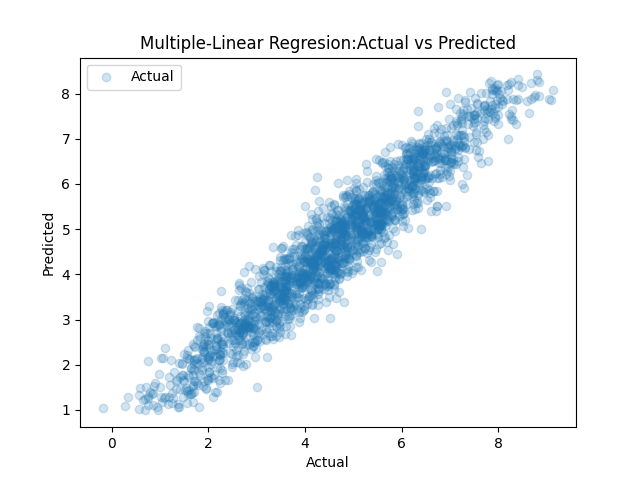
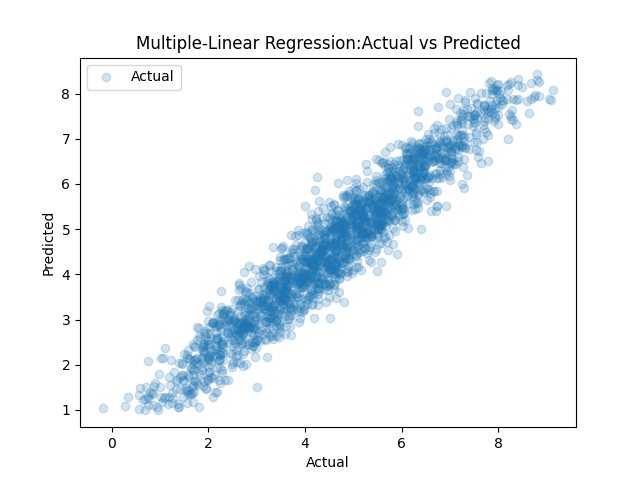
Added Logistics Regression in README

Changed region(s): [[0.2188, 0.0625, 0.8125, 0.125]]

diff --git a/README.md b/README.md
@@ -5,7 +5,7 @@ including code practice and theory notes.
 
 ---
 
-## Train Test Split
+## 01-Train Test Split
 
 ### What is Train-Test Split?
 
@@ -124,3 +124,146 @@ b → intercept (starting point of the line)
 - Adding them pushed R² from 0.57 → 0.91
 - Choosing the right features matters more than the algorithm itself
 - True/False columns must be encoded to 1/0 before using in a model
+
+### 03-Logistic Regression
+
+## What is Logistic Regression?
+
+Logistic Regression is a classification algorithm that predicts the probability of an outcome being **yes or no (1 or 0)**. Unlike Linear Regression which predicts a number, Logistic Regression predicts a **class**.
+
+---
+
+## Types of Logistic Regression
+
+| Type        | When to Use             | Example             |
+| ----------- | ----------------------- | ------------------- |
+| Binary      | Only 2 outcomes         | Pass / Fail         |
+| Multinomial | 3+ outcomes, no order   | Cat / Dog / Bird    |
+| Ordinal     | 3+ outcomes, with order | Low / Medium / High |
+
+> We focused on **Binary Logistic Regression** in this session.
+
+---
+
+## How It Works
+
+- Takes input features and predicts a **probability between 0 and 1**
+- If probability >= 0.5 → Class 1 (Yes)
+- If probability < 0.5 → Class 0 (No)
+
+```
+0.0  ←————————————————→  1.0
+NO                        YES
+(0%)                    (100%)
+```
+
+---
+
+## Difference — Linear vs Logistic Regression
+
+|             | Linear Regression     | Logistic Regression       |
+| ----------- | --------------------- | ------------------------- |
+| Output      | A number (e.g. 270kg) | A probability (e.g. 0.85) |
+| Used for    | Regression            | Classification            |
+| Example     | Predict crop yield    | Predict pass/fail         |
+| Result type | Continuous            | 0 or 1                    |
+
+---
+
+## Confusion Matrix
+
+A confusion matrix shows exactly where the model was right and where it was wrong.
+
+```
+                 Predicted NO    Predicted YES
+Actual NO    →       TN               FP
+Actual YES   →       FN               TP
+```
+
+| Term | Full Name      | Meaning                       |
+| ---- | -------------- | ----------------------------- |
+| TN   | True Negative  | Correctly predicted No        |
+| TP   | True Positive  | Correctly predicted Yes       |
+| FP   | False Positive | Predicted Yes but actually No |
+| FN   | False Negative | Predicted No but actually Yes |
+
+---
+
+## Projects Built
+
+### Project 1 — Student Pass/Fail Predictor
+
+**File:** `logistics.py`
+
+| Detail           | Info                        |
+| ---------------- | --------------------------- |
+| Dataset          | Manually created            |
+| Rows             | 10                          |
+| Features         | study_hours, previous_marks |
+| Target           | passed (1 = Pass, 0 = Fail) |
+| Train/Test Split | No — dataset too small      |
+| Accuracy         | 100%                        |
+
+**Confusion Matrix Result:**
+
+```
+[[4 0]
+ [0 6]]
+```
+
+Model predicted all 10 students correctly.
+
+**New Student Prediction:**
+
+- study_hours = 4, previous_marks = 58 → **Predicted: PASS**
+
+---
+
+### Project 2 — Heart Disease Predictor
+
+**File:** `heart_prediction.py`  
+**Dataset:** Heart Disease Dataset — [Kaggle Link](https://www.kaggle.com/datasets/johnsmith88/heart-disease-dataset)
+
+| Detail           | Info                                 |
+| ---------------- | ------------------------------------ |
+| Rows             | 1025                                 |
+| Columns          | 14                                   |
+| Missing Values   | None                                 |
+| Target           | target (1 = Disease, 0 = No Disease) |
+| Train/Test Split | 80% train / 20% test                 |
+| random_state     | 42                                   |
+| Accuracy         | 79.5%                                |
+
+**Features Used:**
+age, sex, cp, trestbps, chol, fbs, restecg, thalach, exang, oldpeak, slope, ca, thal
+
+**Confusion Matrix Result:**
+
+```
+                 Predicted NO    Predicted YES
+Actual NO    →      73               29
+Actual YES   →      13               90
+```
+
+- 73 patients correctly predicted as healthy
+- 90 patients correctly predicted as having heart disease
+- 29 false alarms
+- 13 missed cases
+
+---
+
+## Key Learnings
+
+- Logistic Regression predicts **class (0 or 1)**, not a number
+- Always use train-test split when dataset has **100+ rows**
+- Use `max_iter=1000` to avoid ConvergenceWarning on large datasets
+- Use `df.drop("target", axis=1)` to select all features cleanly
+- Accuracy alone is not enough — always check the **confusion matrix**
+
+---
+
+## What Comes Next
+
+- Decision Tree
+- Random Forest
+- Model Deployment with Streamlit